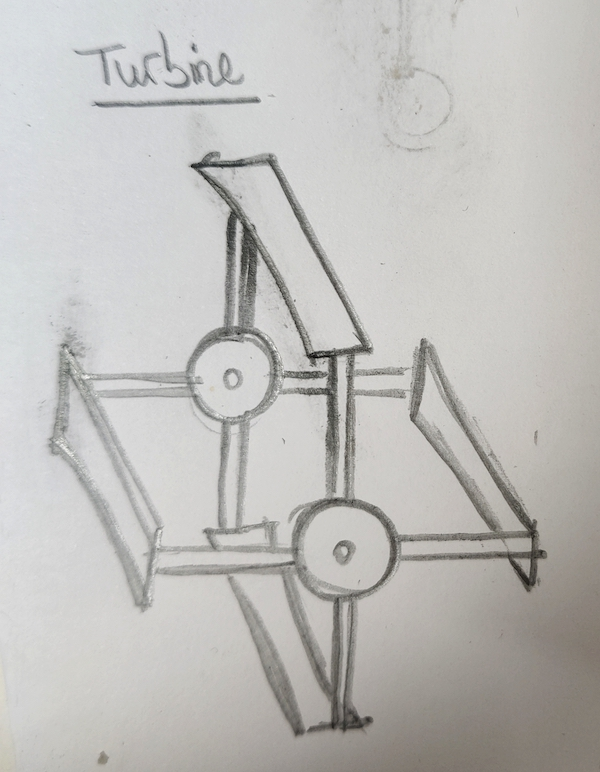
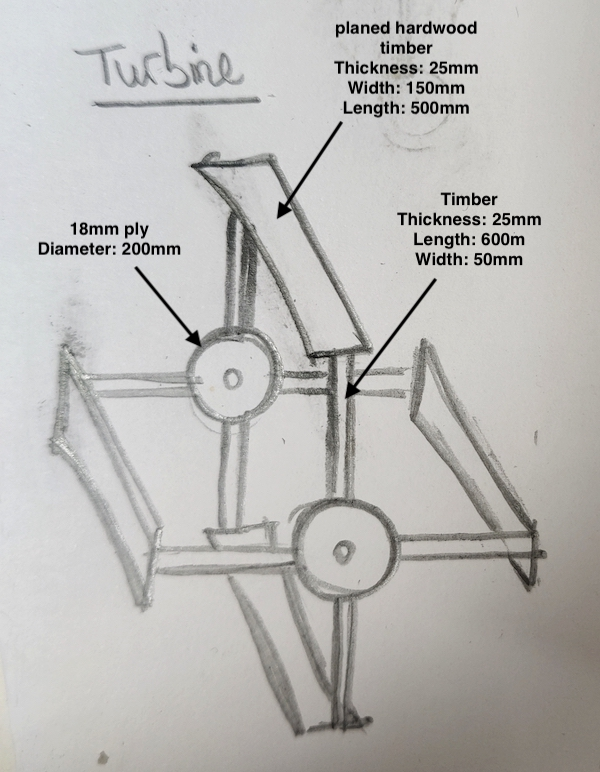
Adding more parts and specs.

diff --git a/README.md b/README.md
@@ -29,7 +29,9 @@ One of the turbines will be driven from the motor on one side. On the other side
 - 48V 1500W power supply
 
 **Transmission**
+
 For the motor:
+
 - 20 teeth 08B1 Roller Chain Sprocket ([Bearing Boys](https://www.bearingboys.co.uk/08B1-12inch-Simplex-Sprockets/4120-Roller-Chain-Sprocket-6155-p))
 - 1610 taperlock bush, 40mm bore size ([Bearing Boys](https://www.bearingboys.co.uk/1610-Taper-Bushes/161040-Taper-Bush-Dunlop-2316-p))
 - 95 teeth 08B1 Roller Chain Sprocket ([Bearing Boys](https://www.bearingboys.co.uk/08B1-12inch-Simplex-Sprockets/4195-Roller-Chain-Sprocket-6213-p))
@@ -37,13 +39,19 @@ For the motor:
 
 For the turbines:
 
+- 18mm ply
+- Turbine frame timber ([Travis Perkins](https://www.travisperkins.co.uk/treated-timber/25mm-x-50mm-x-3-6m-sawn-softwood-carcassing-treated-green/p/206941))
+- Blade hardwood ([Travis Perkins](https://www.travisperkins.co.uk/planed-hardwood-timber/25mm-x-150mm-hardwood-planed-timber-all-round-red-grandis/p/608003))
+
+
 - 2 x 30 teeth 08B1 Roller Chain Simplex Sprocket ([Bearing Boys](https://www.bearingboys.co.uk/08B1-12inch-Simplex-Sprockets/4130-Roller-Chain-Sprocket-6195-p))
 - 2 x 2012 taperlock bush, 1 inch bore ([Bearing Boys](https://www.bearingboys.co.uk/2012-Taper-Bushes/20121-Taper-Bush-Dunlop-2373-p))
 - 2 x 20 teeth 08B1 Roller Chain Simplex Sprocket ([Bearing Boys](https://www.bearingboys.co.uk/08B1-12inch-Simplex-Sprockets/4120-Roller-Chain-Sprocket-6155-p))
 - 2 x 1610 taperlock bush, 1 inch bore ([Bearing Boys](https://www.bearingboys.co.uk/product.cgi?id=2322&action=addtobasket&qty=1))
 - 5m 08B1 chain
-- 3 simplex connecting links
-
+- 3 x simplex connecting links
+- 4 x bolt on hub ([Bearing boys](https://www.bearingboys.co.uk/Bolt-On-Hubs/BF16-Bolt-on-Hub--Taper-Bush-91121-p))
+- 4 x 1610 taper bush ([Bearing boys](https://www.bearingboys.co.uk/1610-Taper-Bushes/16101-Taper-Bush-Dunlop-2322-p))
 - 2 x 1m 1inch mild steel tube (3mm wall)
 - 2 x 200mm mild steel tube (3mm wall)
 - 4 x pillow block bearing, 1 inch bore ([Bearing Boys](https://www.bearingboys.co.uk/UCPUCPX-Pillow-Blocks/UCP20516-Dunlop-1inch-Pillow-Block-Bearing-10790-p))
